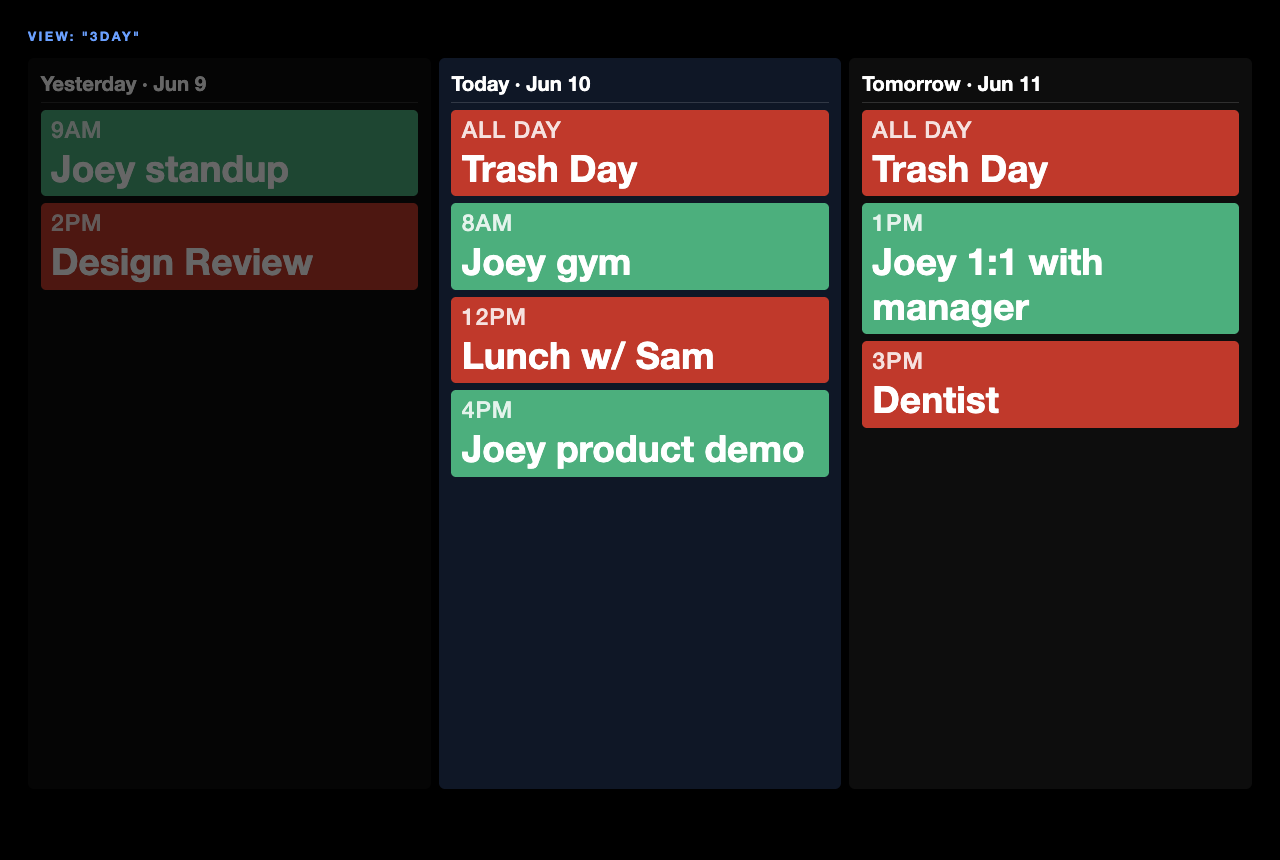
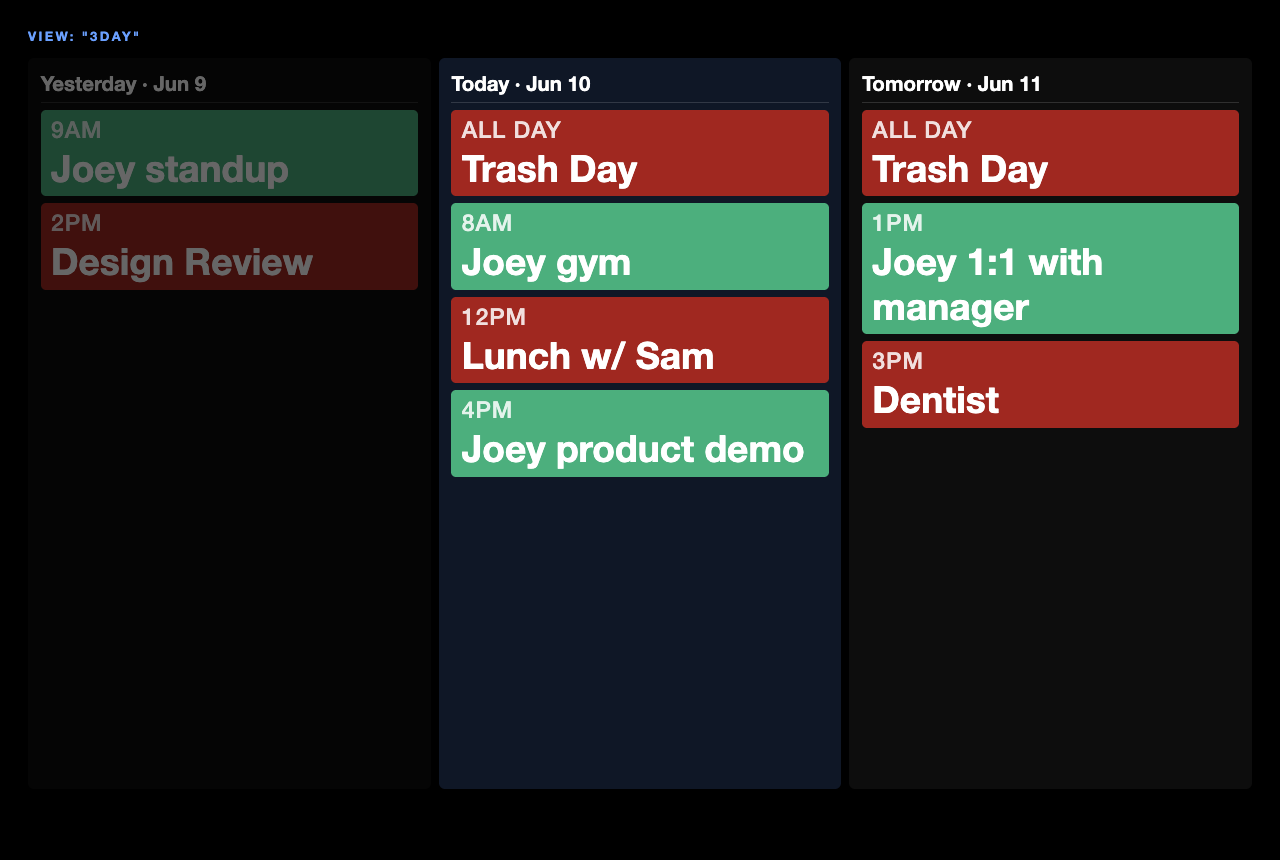
Darken the non-"joey" event red
Change the fallback event color from #c0392b to a darker #a02820 in
both modules; update the README and regenerate screenshots.

Changed region(s): [[0.3438, 0.3326, 0.9688, 0.514], [0.3438, 0.1209, 0.9688, 0.2419]]

diff --git a/MMM-CalendarGrid.js b/MMM-CalendarGrid.js
@@ -464,7 +464,7 @@ Module.register("MMM-CalendarGrid", {
   // reads well on it).
   eventColor(event) {
     const title = (event.title || "").trim().toLowerCase();
-    return title.startsWith("joey") ? event.color : "#c0392b";
+    return title.startsWith("joey") ? event.color : "#a02820";
   },
 
   // Pick black or white text for legibility against a solid hex fill (YIQ luminance).

diff --git a/MMM-TodayEvents.js b/MMM-TodayEvents.js
@@ -105,6 +105,6 @@ Module.register("MMM-TodayEvents", {
   // their calendar color; everything else is shown in red.
   eventColor(event) {
     const title = (event.title || "").trim().toLowerCase();
-    return title.startsWith("joey") ? event.color : "#c0392b";
+    return title.startsWith("joey") ? event.color : "#a02820";
   },
 });

diff --git a/README.md b/README.md
@@ -191,7 +191,7 @@ different fixed `view` values (e.g. a `month` overview plus a `3day` close-up).
 Event colors follow a title-based rule rather than only the calendar color:
 
 - If an event's **title starts with "joey"** (case-insensitive), it keeps its calendar `color`.
-- Every other event is shown in **red** (`#c0392b`), with white text for contrast.
+- Every other event is shown in **red** (`#a02820`), with white text for contrast.
 
 This applies everywhere events render color — month/week/2week pills, the `3day`/`5day` cards, the `agenda` list, and the `MMM-TodayEvents` sidebar. The rule is hardcoded in the `eventColor()` helper in both `MMM-CalendarGrid.js` and `MMM-TodayEvents.js`; edit those two functions to change the keyword or colors.
 
